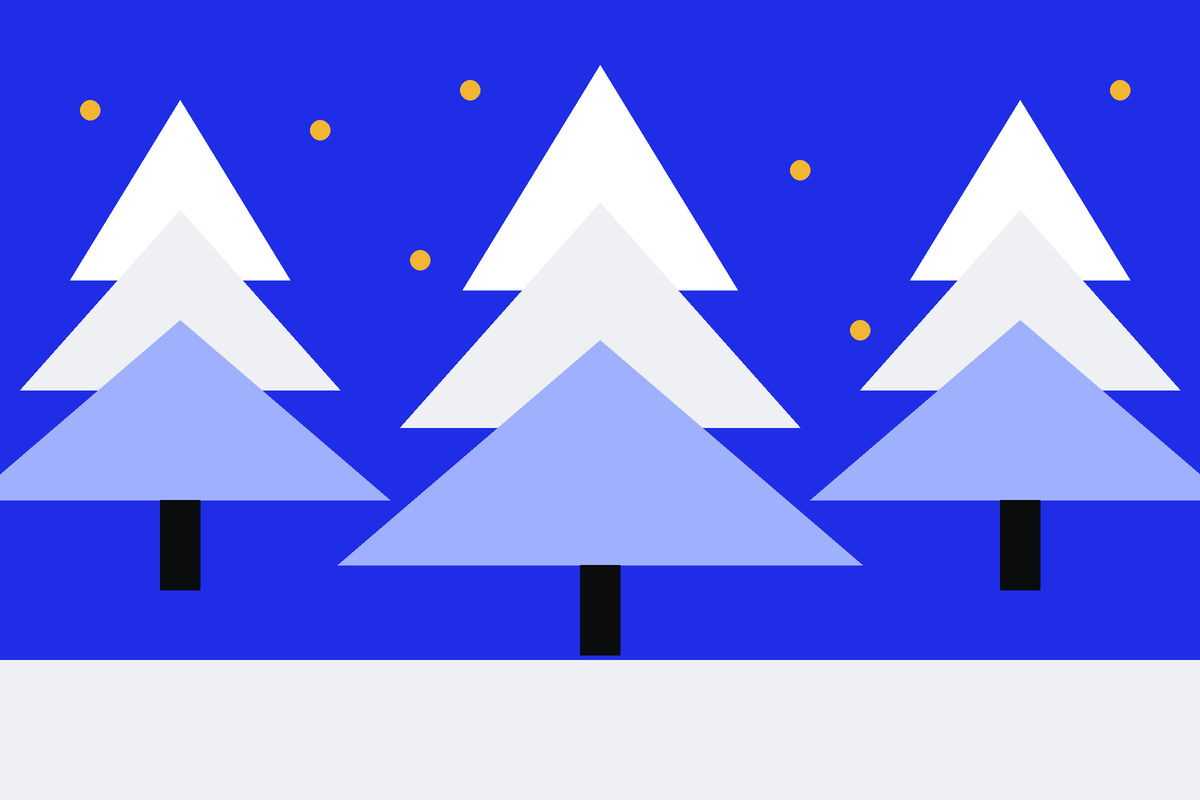
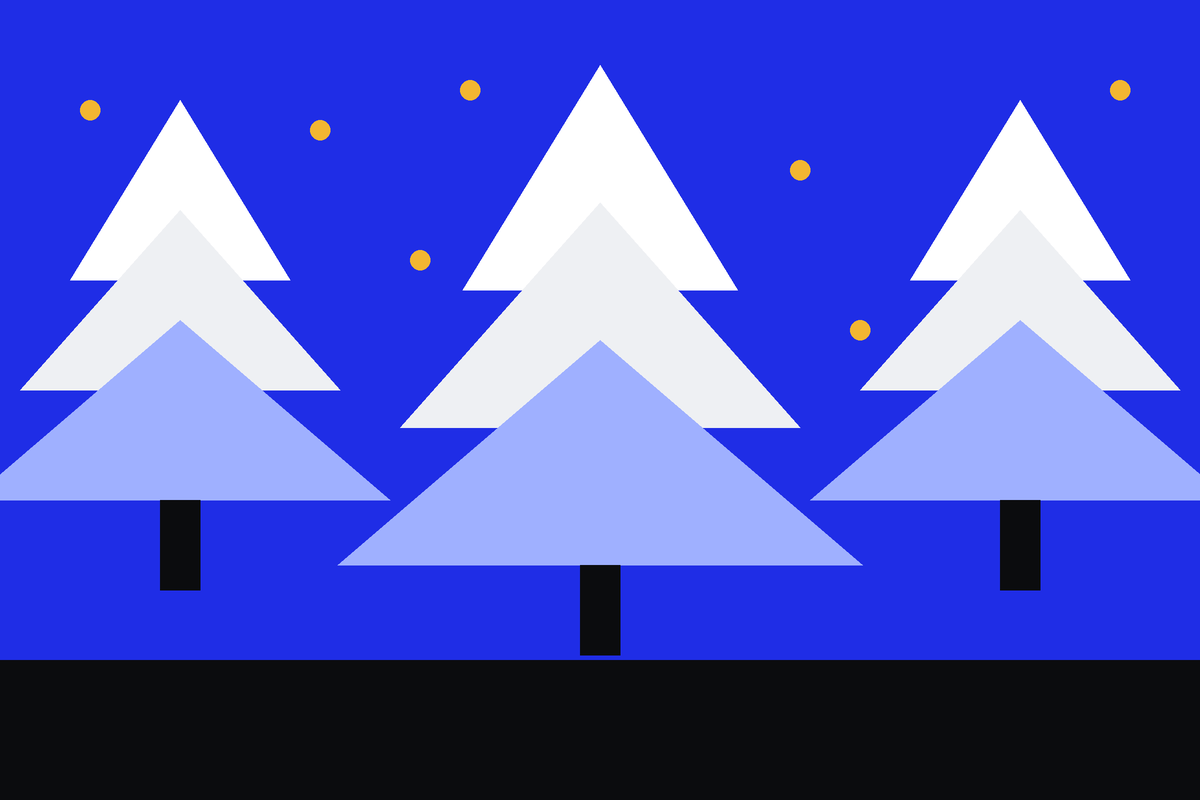
Gazette: row column, instructions header, three images

Changed region(s): [[0.0, 0.8125, 1.0, 1.0]]

diff --git a/gazette/gazette.css b/gazette/gazette.css
@@ -108,19 +108,21 @@
 .notion-root .notion-collection-card > a { display: flex; flex-direction: column; height: 100%; }
 .notion-root .notion-collection-card > a, .notion-root .notion-collection-card .notion-collection-card__cover-wrapper { border-radius: 0 !important; }
 /* row pages (they open with a properties block): a readable column, the page cover as a picture above the title */
-.notion-root:has(> .notion-page__properties) { max-width: 760px; margin-left: auto; margin-right: auto; padding-top: 16px; }
+.notion-root:has(> .notion-page__properties) { width: 100%; max-width: 688px; margin-left: auto; margin-right: auto; padding: 16px 24px 0 !important; }
 .notion-root:has(> .notion-page__properties) h2.notion-heading { font-size: clamp(26px, 1rem + 1.4vw, 34px); line-height: 1.1; margin: 40px 0 12px; }
 .notion-root:has(> .notion-page__properties) p.notion-text { margin: 0 0 16px; }
 .notion-root .notion-page__property:has(.notion-property__file) { display: none; }
 .notion-root .notion-page__property-name { font-family: Jost, sans-serif; color: var(--gazette-muted); }
 .notion-root .notion-page__properties .notion-property { font-family: Jost, sans-serif; color: var(--gazette-ink); }
-.super-content:has(.notion-root > .notion-page__properties) .notion-header__content { max-width: 760px; margin-left: auto; margin-right: auto; }
+.super-content:has(.notion-root > .notion-page__properties) .notion-header__content { width: 100%; max-width: 688px; margin-left: auto; margin-right: auto; padding-left: 24px; padding-right: 24px; }
 .super-content:has(.notion-root > .notion-page__properties) .notion-header__title { font-size: clamp(36px, 1.2rem + 3vw, 60px); line-height: 1.04; letter-spacing: -.02em; }
-.super-content:has(.notion-root > .notion-page__properties) .notion-header__cover.has-cover { position: relative; width: min(760px, calc(100% - 48px)); height: auto !important; aspect-ratio: 3 / 2; margin: 24px auto 0; }
+.super-content:has(.notion-root > .notion-page__properties) .notion-header__cover.has-cover { position: relative; width: min(640px, calc(100% - 48px)); height: auto !important; aspect-ratio: 3 / 2; margin: 24px auto 0; }
 .super-content:has(.notion-root > .notion-page__properties) .notion-header__cover-image { object-position: center !important; }
 /* a long word in a narrow column breaks at a hyphen, never inside the word */
 .notion-root h1.notion-heading, .notion-root h2.notion-heading, .notion-header__title, .notion-root .notion-collection-card__property.title { overflow-wrap: normal; word-break: normal; hyphens: manual; }
 .notion-root h1.notion-heading, .notion-header__title { text-wrap: balance; }
+/* the Instructions page carries its own H1 */
+.super-content.page__instructions .notion-header { display: none; }
 
 /* =====================================================================
    Template pages: the Instructions child page and its link block
